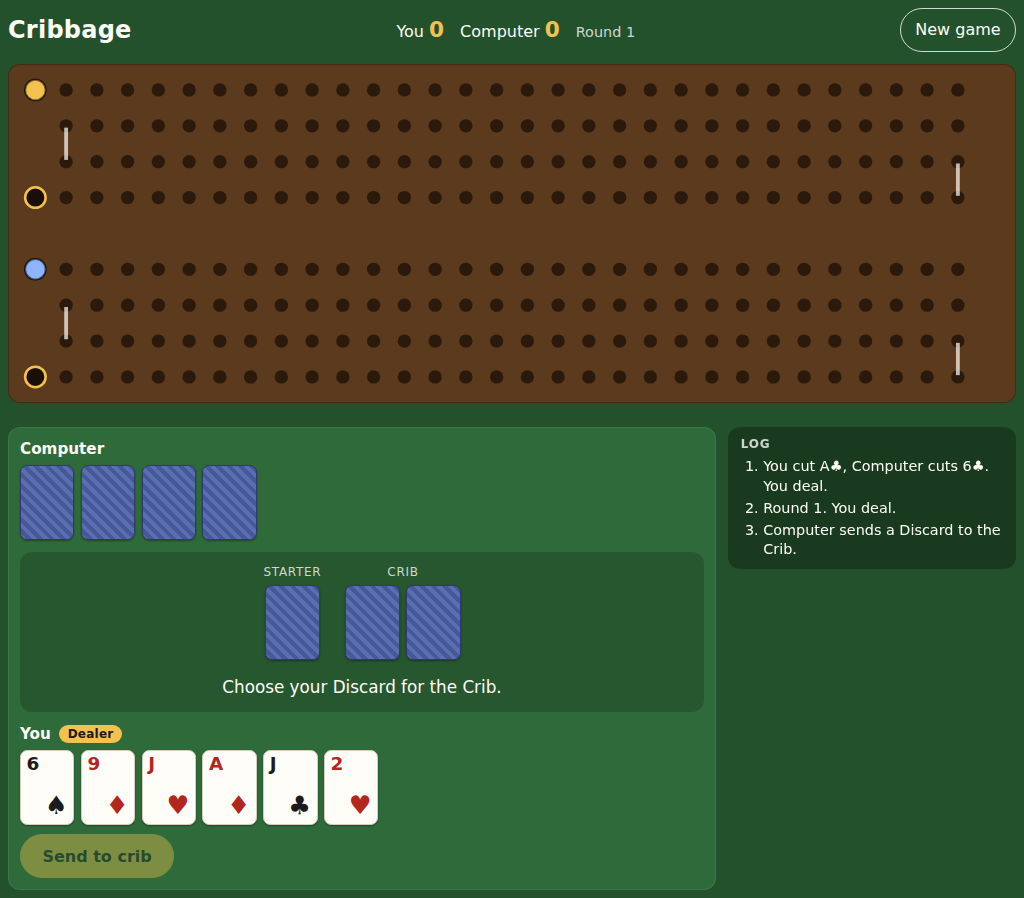
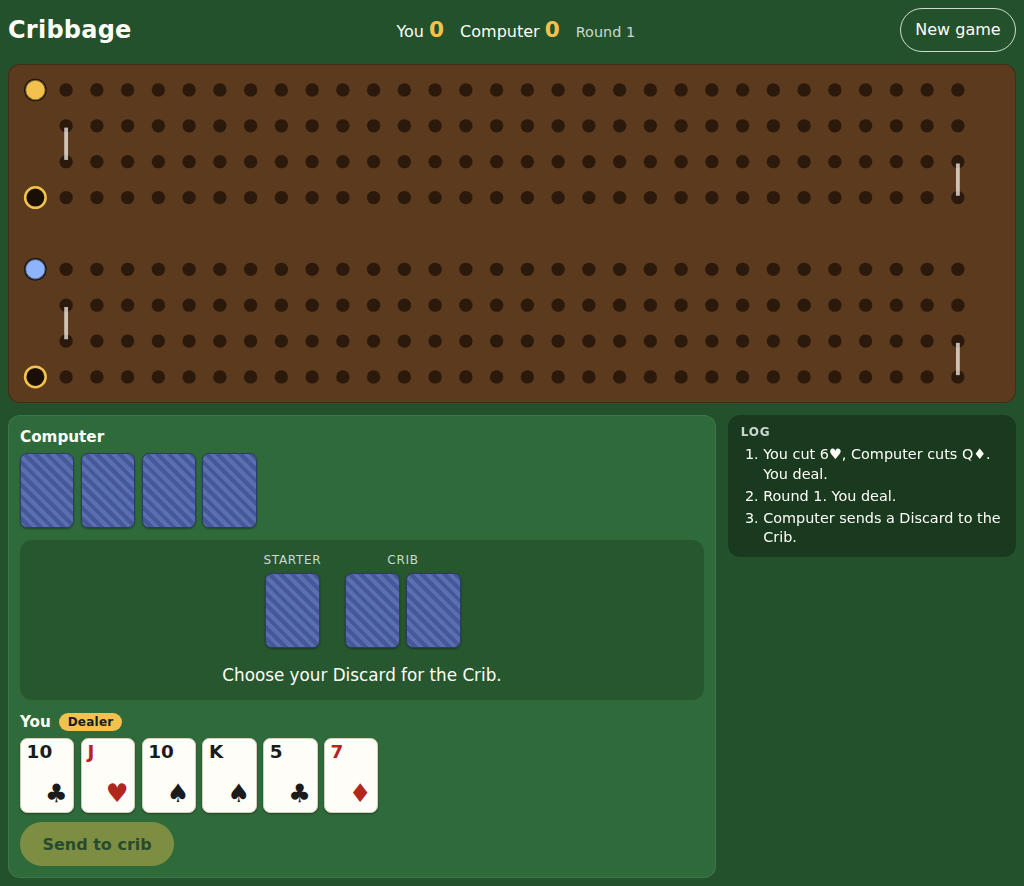
Apply code review to the visual polish
The result panel now sits inside the table's centre, which removes the
empty grid row that doubled the gap between board and table during
play. A phone-only Log link in the header makes the Log one tap away,
the Log is keyboard-focusable so it can be scrolled, the focus ring on a
selected card sits outside its selection ring, and hovering a selected
card no longer moves under reduced motion. Screenshots are named for
the phase they show, cover Discard, Pegging, and the Show, and the
README displays them.

Claude-Session: https://claude.ai/code/session_011zDHvsUUa7NyhTFdcrHjxP

diff --git a/src/ui/styles.css b/src/ui/styles.css
@@ -54,7 +54,6 @@ body {
   grid-template-areas:
     'top'
     'board'
-    'over'
     'table'
     'log';
 }
@@ -65,7 +64,6 @@ body {
     grid-template-areas:
       'top top'
       'board board'
-      'over over'
       'table log';
     align-items: start;
   }
@@ -76,9 +74,6 @@ body {
 }
 .board {
   grid-area: board;
-}
-.game-over {
-  grid-area: over;
 }
 .table {
   grid-area: table;
@@ -92,7 +87,7 @@ body {
   display: grid;
   grid-template-columns: 1fr auto;
   grid-template-areas:
-    'title button'
+    'title actions'
     'scores scores';
   align-items: center;
   gap: 0.25rem 1rem;
@@ -101,7 +96,7 @@ body {
 @media (min-width: 36rem) {
   .top {
     grid-template-columns: auto 1fr auto;
-    grid-template-areas: 'title scores button';
+    grid-template-areas: 'title scores actions';
   }
 }
 
@@ -137,8 +132,27 @@ body {
   font-size: 0.9rem;
 }
 
+.top-actions {
+  grid-area: actions;
+  display: flex;
+  gap: 0.5rem;
+  align-items: center;
+}
+
+/* The Log is below the fold on a phone; wider layouts show it alongside. */
+.quiet-link {
+  display: inline-flex;
+  align-items: center;
+  text-decoration: none;
+}
+
+@media (min-width: 60rem) {
+  .quiet-link {
+    display: none;
+  }
+}
+
 .quiet {
-  grid-area: button;
   font: inherit;
   background: transparent;
   color: var(--paper);
@@ -255,6 +269,11 @@ button.card.card-selected:hover:not(:disabled) {
   box-shadow:
     0 0 0 3px var(--accent),
     0 0.35rem 0.6rem rgba(0, 0, 0, 0.35);
+}
+
+/* Keep the focus ring visible outside the selection ring. */
+button.card.card-selected:focus-visible {
+  outline-offset: 5px;
 }
 
 .card-back {
@@ -398,6 +417,7 @@ button.card.card-selected:hover:not(:disabled) {
 
 /* Result */
 .game-over {
+  width: min(100%, 24rem);
   background: var(--paper);
   color: var(--ink);
   border-radius: var(--radius);
@@ -469,7 +489,8 @@ button.card.card-selected:hover:not(:disabled) {
 @media (prefers-reduced-motion: reduce) {
   .card,
   button.card:hover:not(:disabled),
-  .card-selected {
+  .card-selected,
+  button.card.card-selected:hover:not(:disabled) {
     transition: none;
     transform: none;
   }

diff --git a/src/ui/App.tsx b/src/ui/App.tsx
@@ -2,7 +2,6 @@ import { useState } from 'react';
 import { otherSeat } from '../engine';
 import { heuristicOpponent } from '../opponent';
 import { Board } from './components/Board';
-import { GameOver } from './components/GameOver';
 import { Log } from './components/Log';
 import { Table } from './components/Table';
 import { present } from './session';
@@ -48,18 +47,20 @@ export function App({
             <span className="round">Round {model.round}</span>
           )}
         </div>
-        <button type="button" className="quiet" onClick={startNew}>
-          New game
-        </button>
+        <nav className="top-actions">
+          <a className="quiet quiet-link" href="#log">
+            Log
+          </a>
+          <button type="button" className="quiet" onClick={startNew}>
+            New game
+          </button>
+        </nav>
       </header>
       <Board
         scores={model.scores}
         previous={model.previousScores}
         human={human}
       />
-      {model.stage === 'over' && model.result !== null ? (
-        <GameOver result={model.result} human={human} onNewGame={startNew} />
-      ) : null}
       <Table
         model={model}
         human={human}
@@ -68,6 +69,7 @@ export function App({
         pause={game.pause}
         onAct={game.act}
         onContinue={game.continueShow}
+        onNewGame={startNew}
       />
       <Log events={session.events.slice(0, session.revealed)} human={human} />
     </div>

diff --git a/src/ui/components/Table.tsx b/src/ui/components/Table.tsx
@@ -3,6 +3,7 @@ import { cardKey } from '../cards';
 import { combinations, seatName } from '../log';
 import type { Pause, TableModel } from '../session';
 import { CardBack, CardView } from './CardView';
+import { GameOver } from './GameOver';
 import { DiscardHand, HiddenHand, PeggingHand, ShownHand } from './Hand';
 
 type Props = {
@@ -14,6 +15,7 @@ type Props = {
   pause: Pause;
   onAct: (action: Action) => void;
   onContinue: () => void;
+  onNewGame: () => void;
 };
 
 export function Table({
@@ -24,6 +26,7 @@ export function Table({
   pause,
   onAct,
   onContinue,
+  onNewGame,
 }: Props) {
   const computer = otherSeat(human);
   const who = (seat: Seat) => seatName(seat, human);
@@ -53,6 +56,9 @@ export function Table({
       </section>
 
       <section className="middle">
+        {model.stage === 'over' && model.result !== null && (
+          <GameOver result={model.result} human={human} onNewGame={onNewGame} />
+        )}
         {model.stage === 'cutting' && model.cuts !== null && (
           <div className="cut" aria-label="Cut for deal">
             <span>You cut</span>

diff --git a/src/ui/components/Log.tsx b/src/ui/components/Log.tsx
@@ -16,7 +16,7 @@ export function Log({ events, human }: Props) {
     if (el !== null) el.scrollTop = el.scrollHeight;
   }, [lines.length]);
   return (
-    <section className="log" aria-label="Log" ref={box}>
+    <section className="log" id="log" aria-label="Log" ref={box} tabIndex={0}>
       <h2>Log</h2>
       <ol>
         {lines.map((line, i) => (

diff --git a/src/ui/components/Table.test.tsx b/src/ui/components/Table.test.tsx
@@ -56,6 +56,7 @@ describe('Table during the Show', () => {
     legal: [],
     humanToAct: false,
     onAct: () => undefined,
+    onNewGame: () => undefined,
   };
 
   it('shows the count, its Combinations, and the kept cards, and hides the Computer hand until counted', () => {

diff --git a/README.md b/README.md
@@ -17,6 +17,13 @@ pnpm check        # typecheck, lint, format check, test: what CI runs
 pnpm build        # production build into dist/
 ```
 
+## What it looks like
+
+| Desktop                                                              | Phone                                                            |
+| -------------------------------------------------------------------- | ---------------------------------------------------------------- |
+| ![Desktop, choosing a Discard](docs/screenshots/desktop-discard.png) | ![Phone, choosing a Discard](docs/screenshots/phone-discard.png) |
+| ![Desktop, Pegging](docs/screenshots/desktop-pegging.png)            | ![Phone, the Show](docs/screenshots/phone-show.png)              |
+
 ## How it's put together
 
 - `src/engine/` will hold the game: pure TypeScript, immutable state, seeded randomness, no React.
